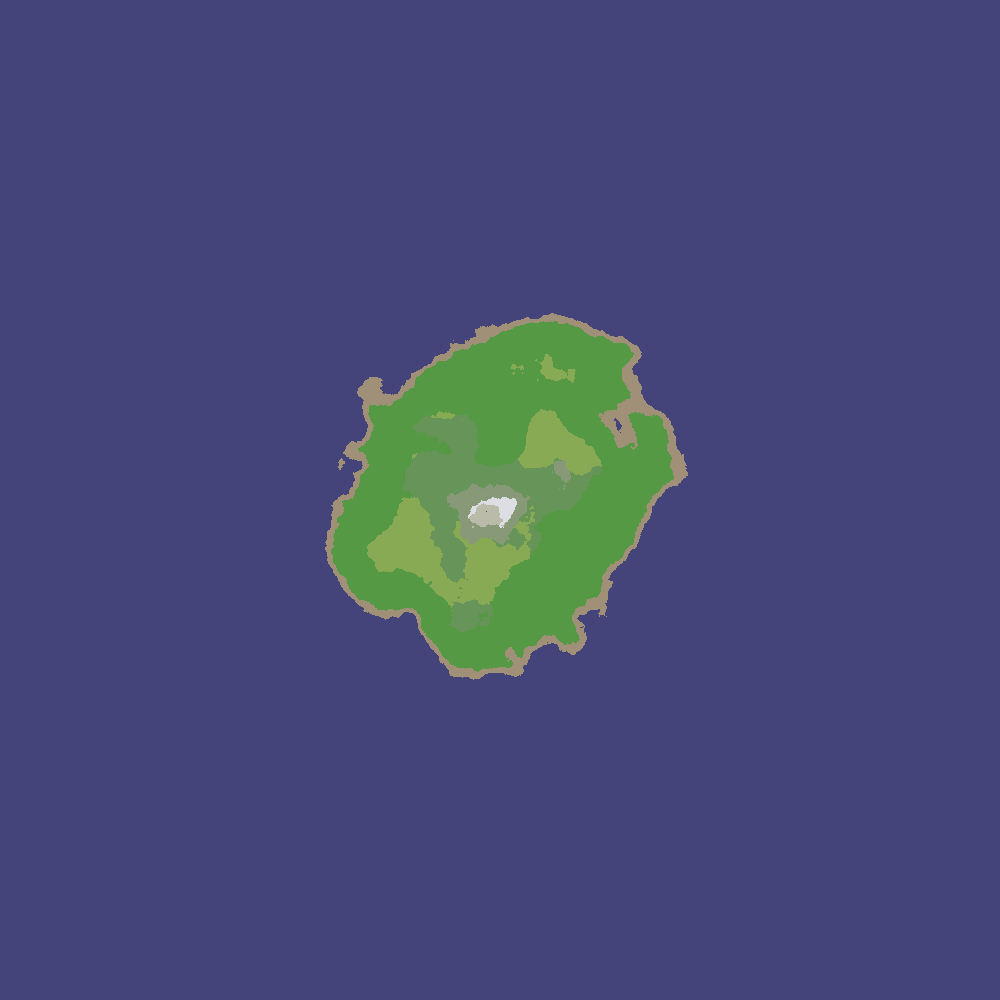
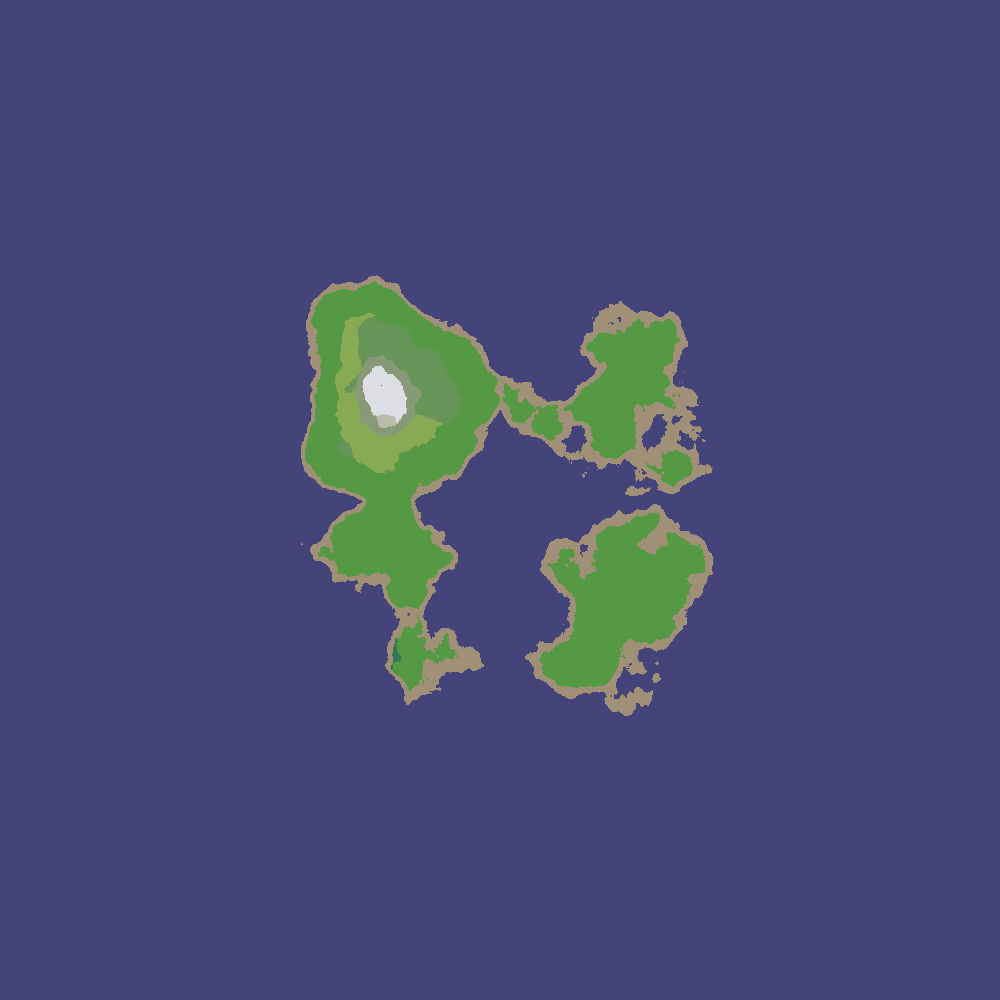
increased the size of the circle gradient

Changed region(s): [[0.279, 0.279, 0.713, 0.713]]

diff --git a/terrain_utils.py b/terrain_utils.py
@@ -30,10 +30,12 @@ def circle_gradient(w, h):
     center_y  = h // 2
     circle_grad = np.zeros((h, w))
 
+    offset = 100
+
     for y in range(h):
         for x in range(w):
-            distx = abs(x - center_x)
-            disty = abs(y - center_y)
+            distx = abs(x - center_x) - offset
+            disty = abs(y - center_y) - offset
             dist = math.sqrt(distx * distx + disty * disty)
             circle_grad[y][x] = dist * 0.5
 
